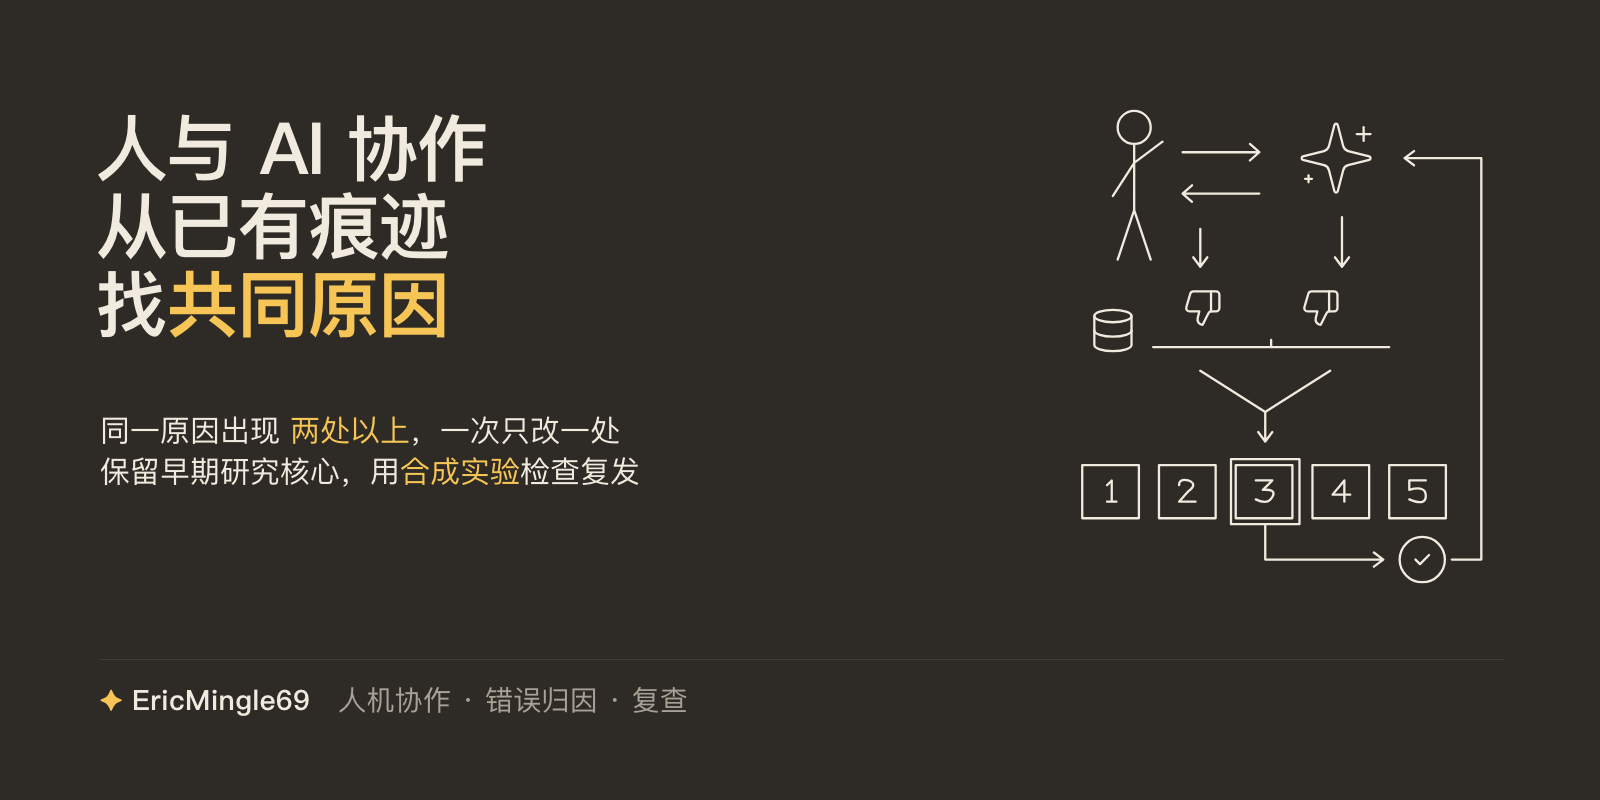
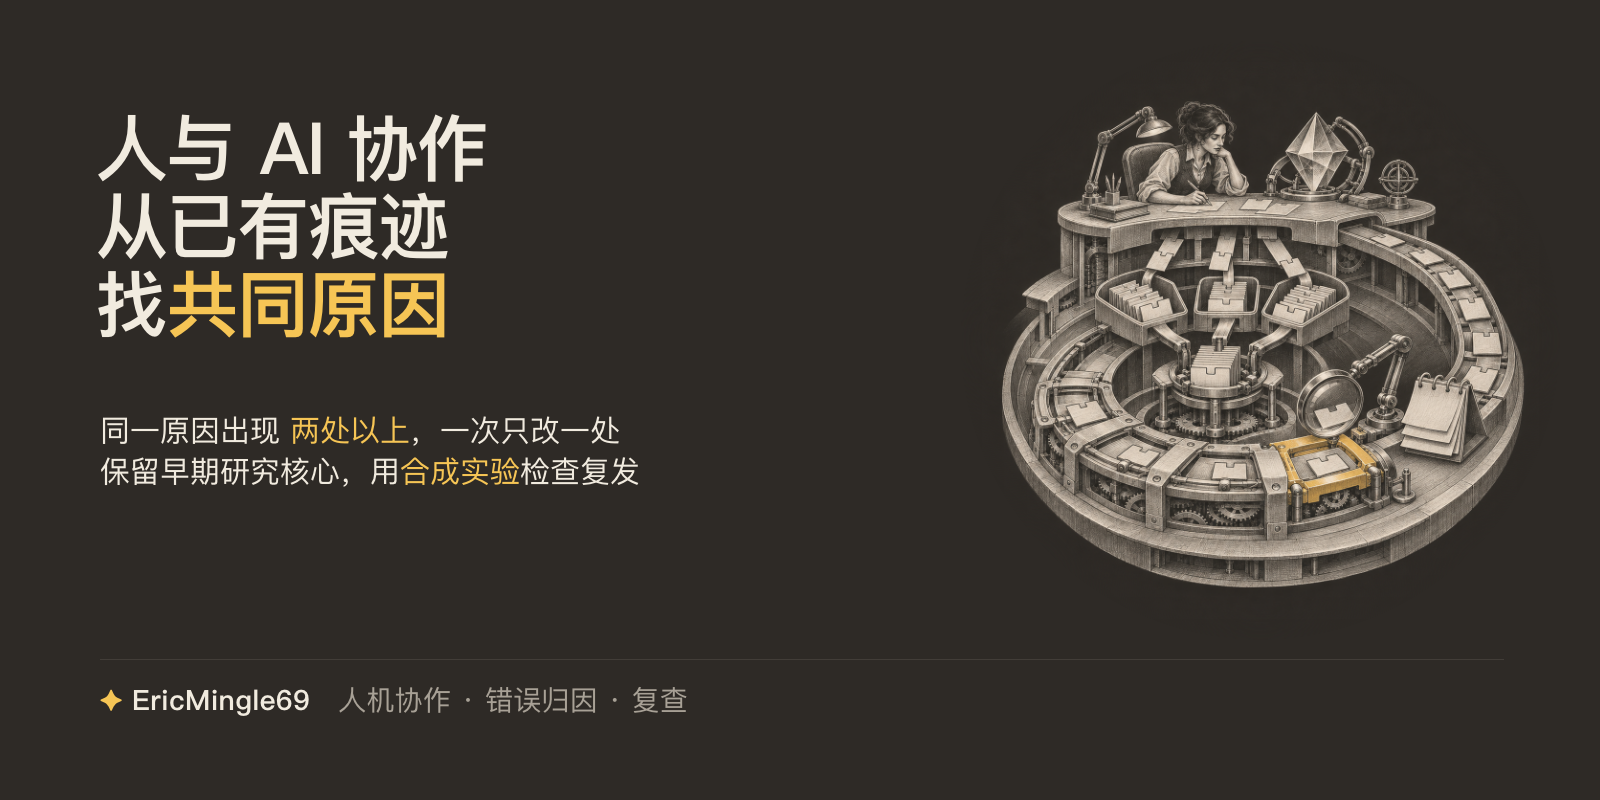
docs: adopt approved generated cover illustrations

Changed region(s): [[0.625, 0.125, 0.9688, 0.75]]

diff --git a/tests/test_publication_guard.py b/tests/test_publication_guard.py
@@ -42,13 +42,16 @@ public_url_hosts = ["github.com"]
         self.manifest()
 
     def test_changed_cover_rejected(self):
-        name = next(iter(guard.COVER_HASHES))
-        self.write(name, "synthetic replacement, not reviewed cover bytes")
-        self.files.append(name)
-        self.manifest()
-        with self.assertRaises(guard.AuditError) as caught:
-            guard.check(self.root)
-        self.assertIn("cover-hash-mismatch", [issue.category for issue in caught.exception.issues])
+        for name in guard.COVER_HASHES:
+            with self.subTest(cover=name):
+                self.write(name, "synthetic replacement, not reviewed cover bytes")
+                self.files.append(name)
+                self.manifest()
+                with self.assertRaises(guard.AuditError) as caught:
+                    guard.check(self.root)
+                self.assertIn("cover-hash-mismatch", [issue.category for issue in caught.exception.issues])
+                self.files.remove(name)
+                (self.root / name).unlink()
 
     def write(self, relative, content):
         path = self.root / relative

diff --git a/scripts/publication_check.py b/scripts/publication_check.py
@@ -24,7 +24,7 @@ from urllib.parse import parse_qsl, urlsplit
 MANIFEST = "PUBLIC-FILES.json"
 CONFIG = "PUBLICATION.toml"
 # Reviewed, generated covers only; other binary files remain forbidden.
[2 lines of base64/hex data omitted]
 MAX_FILES = 3000
 MAX_BYTES = 2_000_000
 DENIED_DIRS = frozenset({

diff --git a/docs/evolution/0.1.2.md b/docs/evolution/0.1.2.md
@@ -7,7 +7,7 @@ README structure and visual presentation differed between public repositories.
 Runtime interfaces are unchanged. Four generated cover PNGs are permitted by exact path and SHA-256 digest in the publication checker.
 
 ## Decisions and alternatives
-Use generated raster typography and a static workflow illustration derived from homepage geometry. Arbitrary PNG support was rejected: changed cover bytes require explicit review and a new digest. Keep MIT attribution for documentation and images.
+Use generated raster typography and a model-generated workflow illustration processed for light and dark themes. Arbitrary PNG support was rejected: changed cover bytes require explicit review and a new digest. Keep MIT attribution for documentation and images.
 
 ## Research hypotheses
 The five-step workflow remains descriptive. No causal improvement or real-world accuracy measurement is introduced.
@@ -18,4 +18,4 @@ Run the synthetic suite and publication check against the base commit. Cover has
 ## Next
 Review the facade and pending workflow follow-up separately before release.
 
-Facade review: move the five-step method into main features, state method changes and pending intervention objectively, and localize the architecture illustration. Covers reuse Lucide icon geometry with its ISC notice; runtime behavior is unchanged.
+Facade review: move the five-step method into main features, state method changes and pending intervention objectively, and localize the architecture illustration. Covers use an OpenAI-generated illustration processed by this project; runtime behavior is unchanged.

diff --git a/CHANGELOG.md b/CHANGELOG.md
@@ -2,6 +2,8 @@
 
 ## [0.1.2] - 2026-11-16
 
+Facade review: move the five-step method into main features, state method changes and pending intervention objectively, and localize the architecture illustration. Covers use an OpenAI-generated illustration processed for light and dark themes; runtime behavior is unchanged.
+
 Unify bilingual README structure and generated covers. Pin four reviewed PNG hashes in the publication checker; all other binary payloads remain rejected. Runtime interfaces and research conclusions are unchanged.
 
 
@@ -24,4 +26,3 @@ First public distribution of the bounded research core.
 
 Actual records, personal runtime/configuration, native collectors, model training, automatic maintenance, live deployment, and cloud/MCP runtime are excluded. There are no earlier public tags or releases of this core. Real-user effectiveness and complete task coverage remain unverified.
 
-Facade review: move the five-step method into main features, state method changes and pending intervention objectively, and localize the architecture illustration. Covers reuse Lucide icon geometry with its ISC notice; runtime behavior is unchanged.

diff --git a/README.en.md b/README.en.md
@@ -103,7 +103,7 @@ Internal package `1.0.0` and MCP interface `1.0.3` are implementation lineage, n
 
 ## Acknowledgements
 
-Cover icons use Lucide geometry; see the [icon license](readme-assets/LUCIDE-LICENSE.txt).
+The cover illustration was generated with an OpenAI image-generation model and processed by this project.
 
 Acknowledgements to the Python and SQLite open-source projects for the runtime and ledger storage.<sup>[[1]](#references)</sup>
 
@@ -125,4 +125,4 @@ Acknowledgements to the Python and SQLite open-source projects for the runtime a
 ---
 
 Maintained by **✦ EricMingle69** · [Ming-Sir-69](https://github.com/Ming-Sir-69)  
-Code, text and original graphics are released under the [MIT License](LICENSE); Lucide icons retain their [ISC License](readme-assets/LUCIDE-LICENSE.txt).
+Code, text and original graphics are released under the [MIT License](LICENSE).

diff --git a/README.md b/README.md
@@ -101,7 +101,7 @@ HCD 事件协议使用 Python 标准库的 SQLite 接口保存账本<sup>[[1]](#
 
 ## 致谢
 
-封面图标沿用 Lucide 几何，许可见 [图标许可](readme-assets/LUCIDE-LICENSE.txt)。
+封面插画由 OpenAI 图像生成模型生成，经本项目处理。
 
 感谢 Python 与 SQLite 开源项目提供运行环境及账本存储基础。<sup>[[1]](#参考文献)</sup>
 
@@ -123,4 +123,4 @@ HCD 事件协议使用 Python 标准库的 SQLite 接口保存账本<sup>[[1]](#
 ---
 
 文档维护：**✦ EricMingle69** · [Ming-Sir-69](https://github.com/Ming-Sir-69)  
-代码、文字与自有图形以 [MIT 许可](LICENSE) 发布；Lucide 图标沿用 [ISC 许可](readme-assets/LUCIDE-LICENSE.txt)。
+代码、文字与自有图形以 [MIT 许可](LICENSE) 发布。
